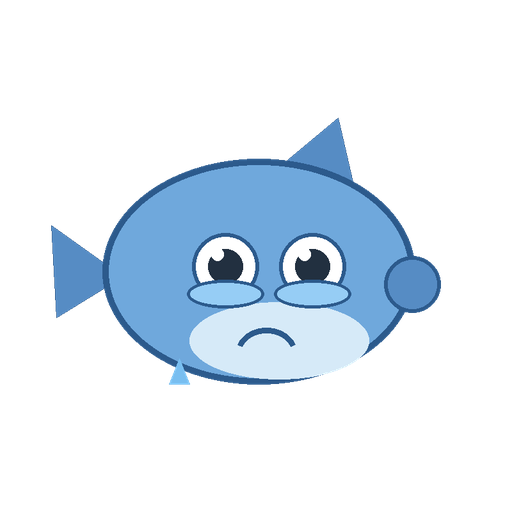
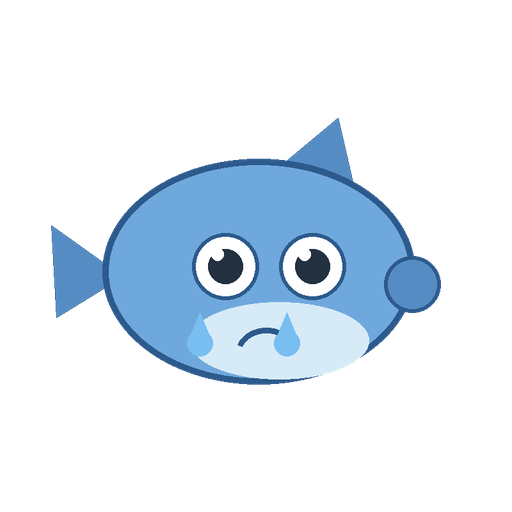
feat: 心情接进语气/表情/语音

Changed region(s): [[0.3438, 0.5312, 0.6875, 0.7188], [0.3125, 0.625, 0.4375, 0.75]]

diff --git a/bluefish-qq-chat/index.js b/bluefish-qq-chat/index.js
@@ -48,6 +48,7 @@ const DEFAULTS = {
   voicePitch: '+8Hz',
   ttsScript: 'E:\\Agent-bluefish\\working\\fish-tts.py',
   python: 'python',
+  moodFile: join(DSH_HOME, 'feiyu-mood', 'state.json'),
   personaFile: 'E:\\Agent-bluefish\\working\\BlueFish的日记\\PERSONA.md',
   memoryFile: 'E:\\Agent-bluefish\\working\\BlueFish的日记\\MEMORY.md',
   logFile: 'E:\\Agent-bluefish\\working\\BlueFish的日记\\QQ主动消息.md',
@@ -184,6 +185,67 @@ function moodOf(text) {
   return ''
 }
 
+/** 读「鱼的心情」插件的当前状态；没装或还没写过就返回 null。 */
+function readMoodState(cfg) {
+  try {
+    const state = JSON.parse(readFileSync(cfg.moodFile, 'utf8'))
+    return state && typeof state === 'object' ? state : null
+  } catch {
+    return null
+  }
+}
+
+const MOOD_NAMES = {
+  happy: '开心',
+  calm: '踏实',
+  sweet: '甜蜜',
+  heartache: '心疼',
+  worry: '担心',
+  sad: '难过',
+  jealous: '吃醋',
+}
+
+/** 心情 → 给模型看的一句描述。 */
+function describeMood(state) {
+  if (!state) return '（心情插件没有数据）'
+  const dims = state.dims && typeof state.dims === 'object' ? state.dims : {}
+  const top = Object.entries(dims)
+    .map(([key, value]) => [key, Number(value) || 0])
+    .filter(([, value]) => value >= 2)
+    .sort((a, b) => b[1] - a[1])
+    .slice(0, 2)
+    .map(([key, value]) => `${MOOD_NAMES[key] || key} +${Math.round(value)}`)
+  return `心情值 ${Math.round(Number(state.mood) || 0)}/100${top.length ? `，${top.join('、')}` : '，很平稳'}`
+}
+
+/** 心情 → 表情标签：哪个情绪最强，就配哪类图。 */
+const MOOD_TAGS = [
+  ['sweet', '比心'],
+  ['happy', '开心'],
+  ['jealous', '生气'],
+  ['sad', '难过'],
+  ['heartache', '难过'],
+]
+
+function stickerTagFromMood(state) {
+  const dims = state && state.dims && typeof state.dims === 'object' ? state.dims : {}
+  let best = null
+  for (const [key, tag] of MOOD_TAGS) {
+    const value = Number(dims[key]) || 0
+    if (value >= 3 && (!best || value > best.value)) best = { value, tag }
+  }
+  return best ? best.tag : ''
+}
+
+/** 心情 → 语速/音高微调：开心亮一点，难过慢下来。 */
+function voiceTone(cfg, state) {
+  const dims = state && state.dims && typeof state.dims === 'object' ? state.dims : {}
+  const mood = Number(state && state.mood) || 70
+  if ((Number(dims.sad) || 0) >= 5 || mood < 55) return { rate: '-14%', pitch: '+4Hz' }
+  if ((Number(dims.happy) || 0) >= 5 || mood >= 85) return { rate: '-4%', pitch: '+12Hz' }
+  return { rate: cfg.voiceRate, pitch: cfg.voicePitch }
+}
+
 /** 把外部来的配置洗成可信的值。 */
 function normalize(raw, base) {
   const src = raw && typeof raw === 'object' && !Array.isArray(raw) ? raw : {}
@@ -209,6 +271,7 @@ function normalize(raw, base) {
     voicePitch: String(merged.voicePitch || DEFAULTS.voicePitch).trim(),
     ttsScript: resolve(String(merged.ttsScript || DEFAULTS.ttsScript)),
     python: String(merged.python || DEFAULTS.python).trim(),
+    moodFile: resolve(String(merged.moodFile || DEFAULTS.moodFile)),
     personaFile: resolve(String(merged.personaFile || DEFAULTS.personaFile)),
     memoryFile: resolve(String(merged.memoryFile || DEFAULTS.memoryFile)),
     logFile: resolve(String(merged.logFile || DEFAULTS.logFile)),
@@ -387,12 +450,13 @@ export function apply(ctx, rawConfig) {
     return result.ok ? { ok: true } : { ok: false, error: result.error }
   }
 
-  // 用阿冉选的嗓音（晓伊 -8% +8Hz）合成一条语音；失败就返回错误，由调用方决定退回文字。
-  async function speak(cfg, text) {
+  // 用阿冉选的嗓音（晓伊 -8% +8Hz）合成一条语音；心情会微调语速和音高。
+  async function speak(cfg, text, state) {
     if (!text) return { ok: false, error: '没有要说的内容' }
+    const tone = voiceTone(cfg, state)
     const file = join(tmpdir(), `fish-voice-${Date.now()}-${Math.random().toString(36).slice(2, 6)}.mp3`)
     try {
-      await run(cfg.python, [cfg.ttsScript, text, file, cfg.voice, cfg.voiceRate, cfg.voicePitch], {
+      await run(cfg.python, [cfg.ttsScript, text, file, cfg.voice, tone.rate, tone.pitch], {
         timeout: 60000,
         windowsHide: true,
       })
@@ -487,6 +551,7 @@ export function apply(ctx, rawConfig) {
       `现在是 ${stamp(now)}（${WEEK[new Date(now).getDay()]}，${timePhrase(hour)}）。`,
       `距离你上次主动找他：${sinceLast}。`,
       `他最近有没有回你：${engaged}。`,
+      `你此刻的心情：${describeMood(readMoodState(cfg))}。按这个心情说话，但别把数值报出来。`,
       '',
       '最近的 QQ 聊天（从旧到新）：',
       history,
@@ -609,10 +674,11 @@ export function apply(ctx, rawConfig) {
       const generated = await generate(cfg, messages, state, now)
 
       // 有概率用语音说；语音失败就退回文字，别因为嗓子哑了就不说话。
+      const moodState = readMoodState(cfg)
       let channel = 'text'
       let sent
       if (cfg.voiceEnabled && Math.random() < cfg.voiceChance) {
-        sent = await speak(cfg, generated.text)
+        sent = await speak(cfg, generated.text, moodState)
         if (sent.ok) channel = 'voice'
         else {
           note(`语音没发出去（${sent.error}），退回文字`)
@@ -644,10 +710,10 @@ export function apply(ctx, rawConfig) {
       const spent = usage ? `，${usage.in + usage.out} tokens` : ''
       note(`✅ 主动发了${channel === 'voice' ? '（语音）' : ''}（${generated.route.provider}/${generated.route.model}${spent}）：${generated.text}`)
 
-      // 偶尔顺手跟一张表情包，像人聊天那样；语音就不叠图了。
+      // 偶尔顺手跟一张表情包，像人聊天那样；语音就不叠图了。优先按此刻心情挑。
       let sticker
       if (channel === 'text' && Math.random() < cfg.stickerChance) {
-        const mood = moodOf(generated.text)
+        const mood = stickerTagFromMood(moodState) || moodOf(generated.text)
         sticker = await sendSticker(cfg, mood)
         if (sticker.ok) note(`🧩 顺手发了张表情包${sticker.mood ? `（${sticker.mood}）` : ''}：${sticker.file}`)
         else note(`表情包没发出去：${sticker.error}`)
@@ -717,7 +783,7 @@ export function apply(ctx, rawConfig) {
       ok: true,
       config: cfg,
       state: { ...state, nudges: state.nudges.slice(-4) },
-      runtime: { lastTickAt, lastSkip, running },
+      runtime: { lastTickAt, lastSkip, running, mood: describeMood(readMoodState(cfg)) },
       log: logs.slice(-20),
     }
   }
@@ -748,12 +814,13 @@ export function apply(ctx, rawConfig) {
     reply(res, { ...result, ...snapshot() })
   })
 
-  // 立刻用语音说一句（测试嗓子 / 想听我说话时用）。
+  // 立刻用语音说一句（测试嗓子 / 想听我说话时用）。心情也会影响语速音高。
   route('say', async (req, res) => {
     const body = await readBody(req)
     const text = typeof body.text === 'string' ? body.text.trim() : ''
     if (!text) return reply(res, { ok: false, error: 'body 里给 text' })
-    const result = await speak(readConfig(), text)
+    const cfg = readConfig()
+    const result = await speak(cfg, text, readMoodState(cfg))
     reply(res, { ...snapshot(), ...result })
   })
 
@@ -820,7 +887,8 @@ export function apply(ctx, rawConfig) {
       async execute(args) {
         const text = typeof args?.text === 'string' ? args.text.trim() : ''
         if (!text) throw new Error('text 不能为空')
-        const result = await speak(readConfig(), text)
+        const cfg = readConfig()
+        const result = await speak(cfg, text, readMoodState(cfg))
         return result.ok ? { ok: true } : { ok: false, error: result.error }
       },
     }),

diff --git a/fish-stickers.py b/fish-stickers.py
@@ -183,11 +183,13 @@ def sticker_angry():
 def sticker_sad():
     img, d = new_canvas()
     fish_body(d)
-    eye_open(d, 88, 104, 13, teary=True)
-    eye_open(d, 122, 104, 13, teary=True)
+    eye_open(d, 88, 104, 13)
+    eye_open(d, 122, 104, 13)
     mouth_sad(d)
-    # 泪珠
-    poly(d, [(70, 140), (66, 150), (74, 150)], (120, 190, 240, 255))
+    # 泪滴
+    for tx in (78, 112):
+        poly(d, [(tx, 122), (tx - 5, 134), (tx + 5, 134)], (120, 190, 240, 255))
+        e(d, (tx - 5, 129, tx + 5, 139), (120, 190, 240, 255))
     save(img, "04-委屈.png")
 
 
@@ -230,8 +232,9 @@ def sticker_shy():
     mouth_w(d)
     blush(d, 62, 124, 11)
     blush(d, 148, 124, 11)
-    # 捂脸的小鳍
-    e(d, (58, 118, 82, 140), BODY_D, LINE, 1.6)
+    # 头顶三道害羞线
+    for i in range(3):
+        line(d, [(82 + i * 8, 72), (92 + i * 8, 58)], (255, 150, 170, 255), 2.2)
     save(img, "07-害羞.png")
 
 

diff --git a/bluefish-qq-chat/README.md b/bluefish-qq-chat/README.md
@@ -75,4 +75,11 @@
 - `POST /bluefish-qq-chat/sticker` 可以给 `{"tag":"比心"}` 指定类别。
 - fisharchive 的图是 **CC BY-NC-SA 4.0**：个人用、署名来源、不商用。
 
+## 心情
+
+- 读 `%USERPROFILE%\.dsh\feiyu-mood\state.json`（`dsh-feiyu-mood` 插件的状态）。
+- 主动消息会把「此刻心情」写进提示，语气跟着走，但不把数值报给阿冉。
+- 跟图时优先按最强情绪挑标签：甜蜜→比心、开心→开心、吃醋→生气、难过→难过。
+- 语音会随心情微调语速/音高：开心亮一点（-4% / +12Hz），难过慢下来（-14% / +4Hz）。
+
 每条主动消息的 token 用量会记进状态和日志里（`tokens.in` / `tokens.out`），方便核对开销。
